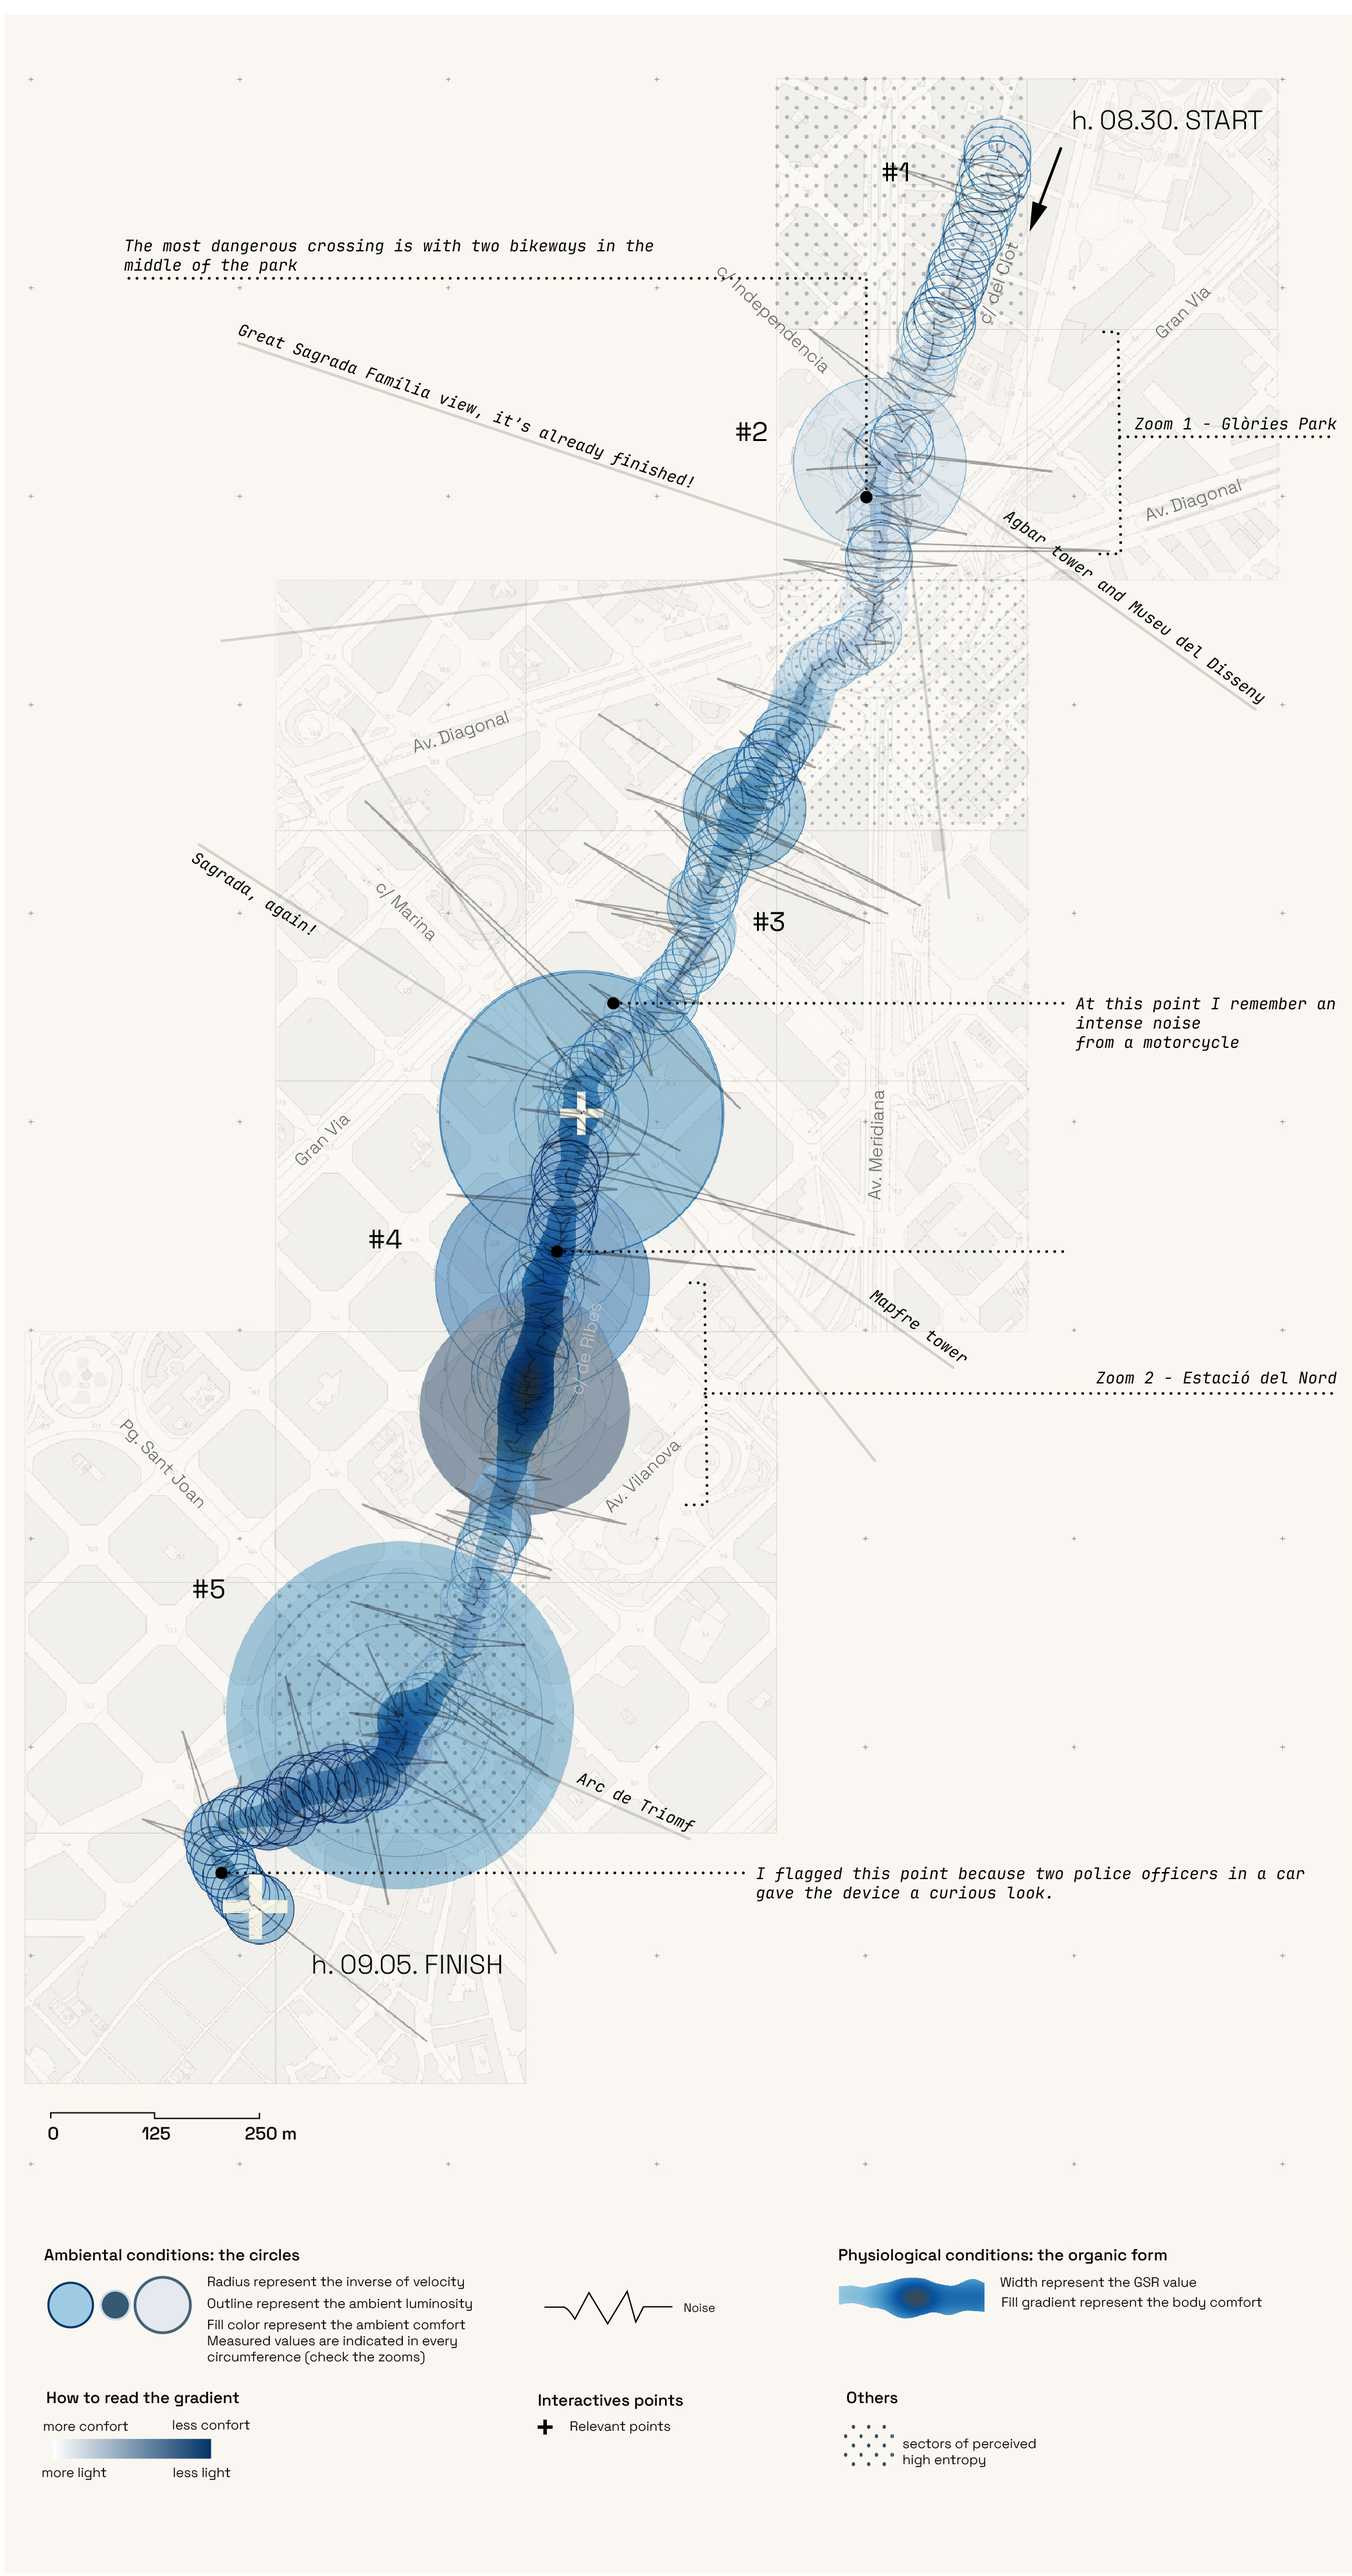
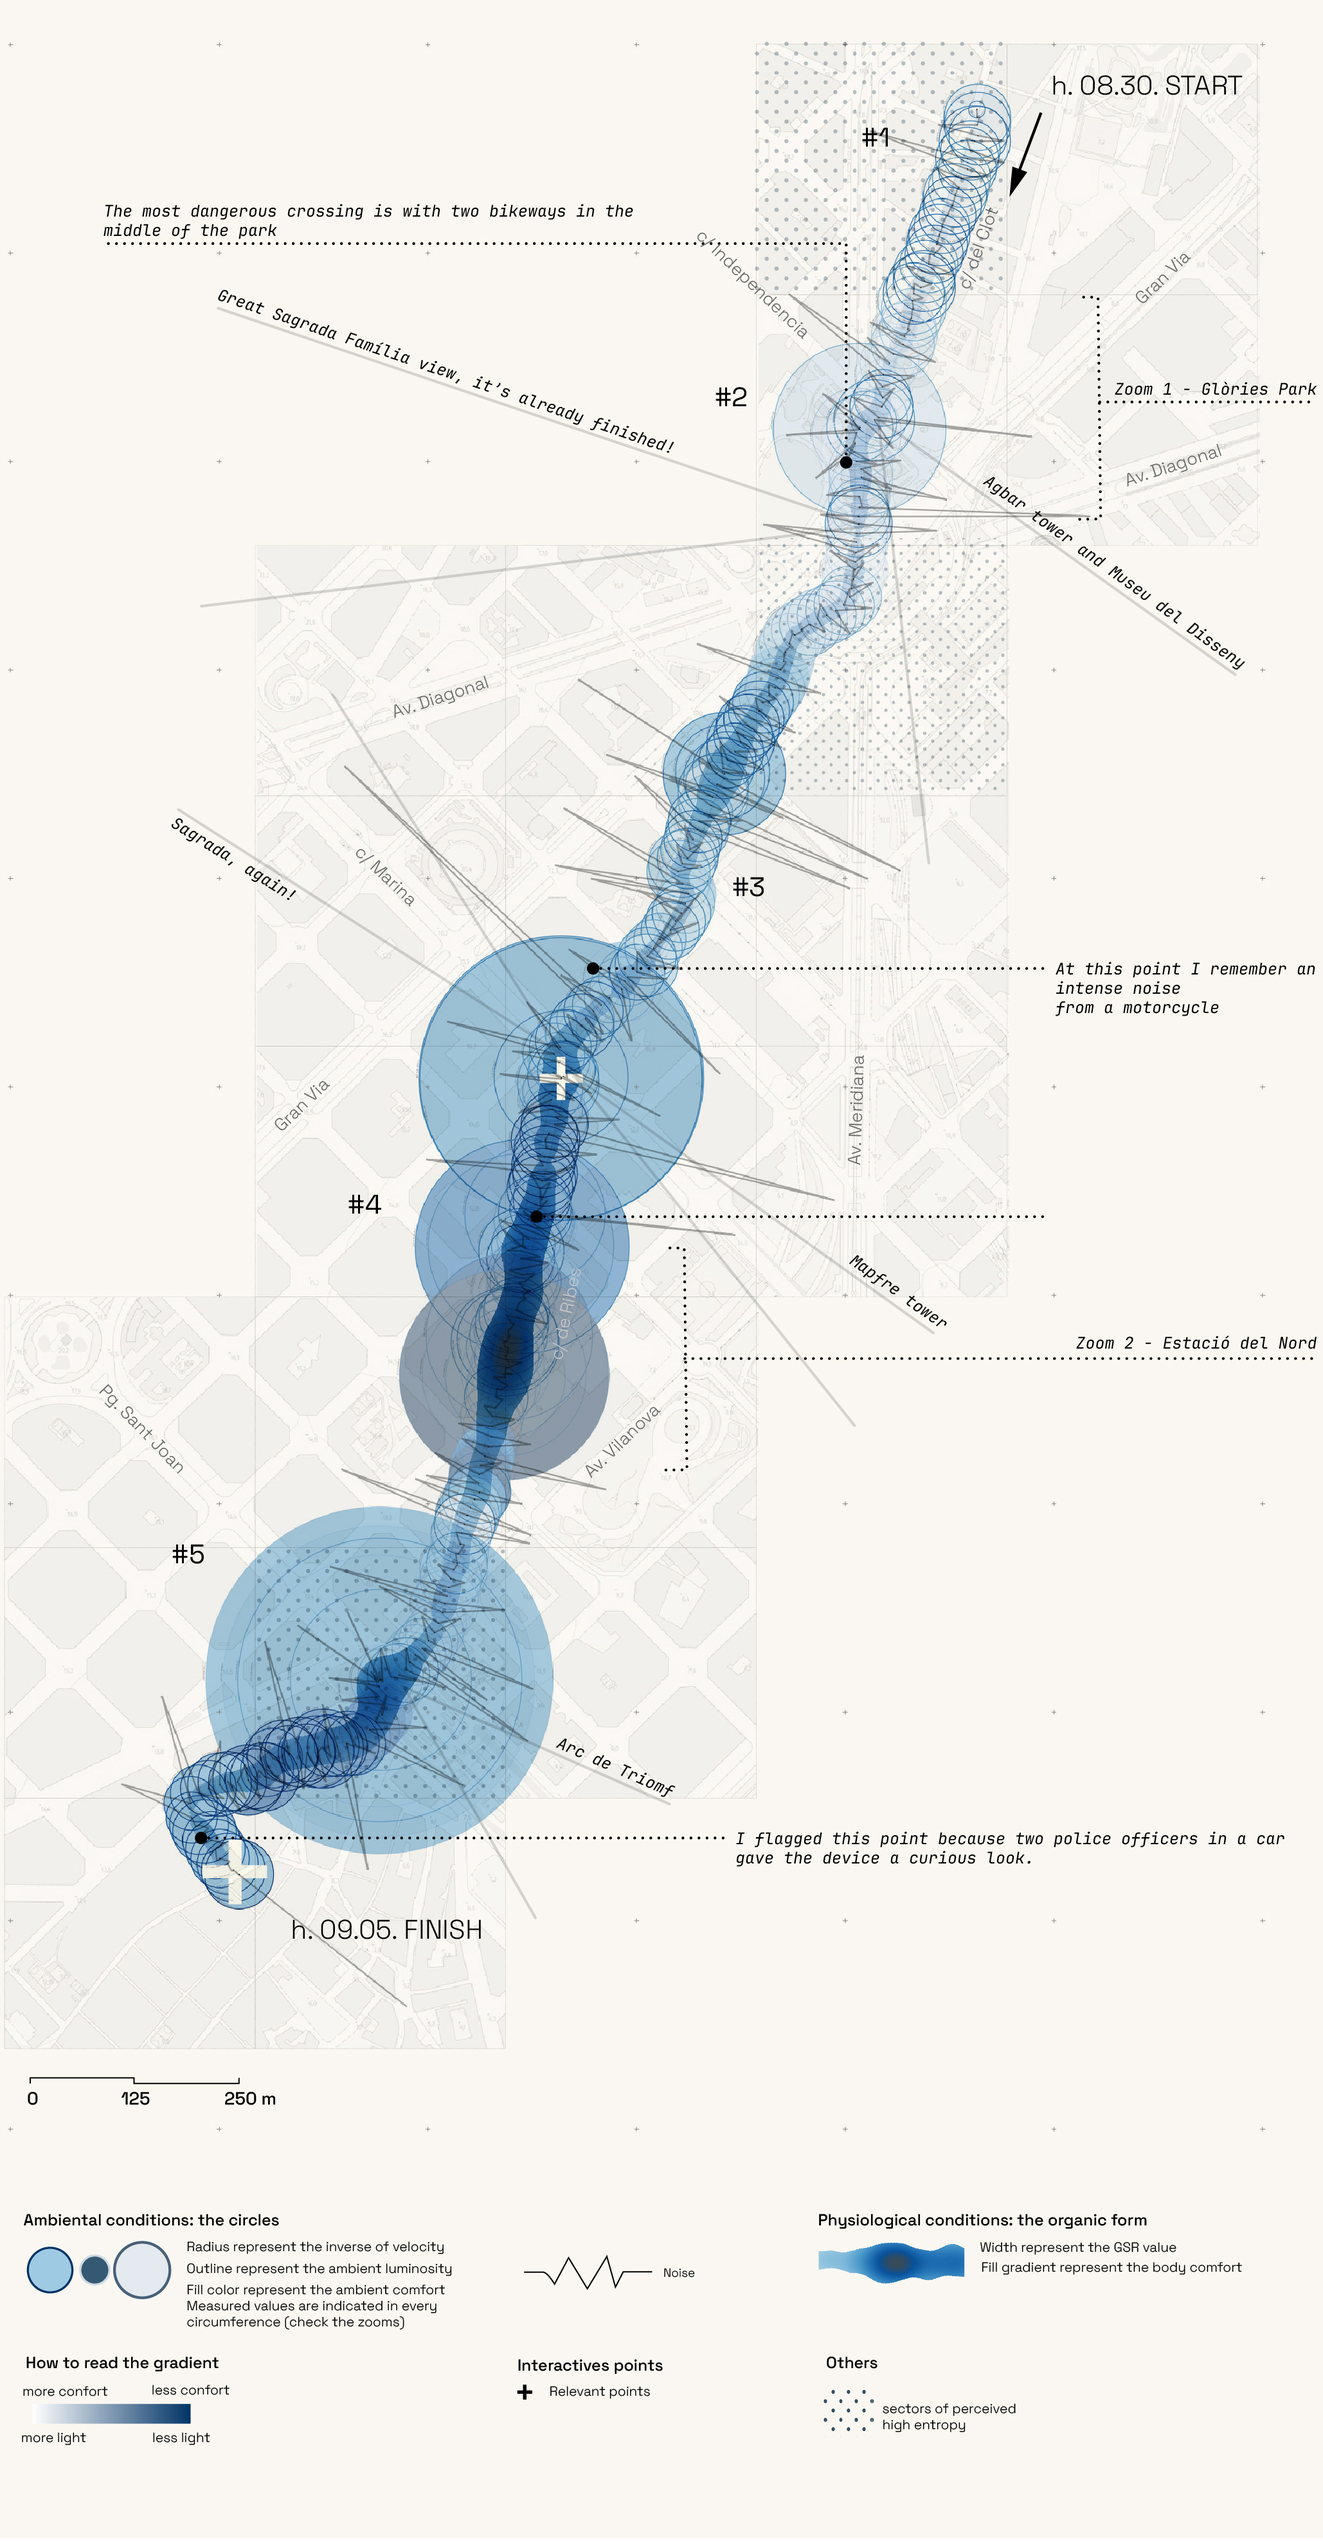
Update Voce Atlas “wka_01-first-test-drift-from-home-to-the-office”

diff --git a/src/content/atlas/wka_01-first-test-drift-from-home-to-the-office.md b/src/content/atlas/wka_01-first-test-drift-from-home-to-the-office.md
@@ -2,7 +2,7 @@
 titolo: WKa_01 First Test Drift From home to the office
 data: 2026-06-22
 taglia: grande
-immagine: /uploads/map-for-portada-01.jpg
+immagine: ""
 estratto: "This is the first walkography recorded with the WKd_01.01 device. It
   traces a familiar daily path: the walk from my home to the office."
 descrizione: An Experimental Urban Drift Through Barcelona Using Environmental
@@ -33,6 +33,6 @@ A small pause before the last stretch, from Arc de Triomf to the studio.
 
 The last metres aren't quite usual: another bar for foreigners has opened — the kind that looks effortlessly cool but is soulless and inexplicably expensive. Fede's bar has closed; word is there'll be a shawarma place. The one saving grace is Liliana, the unfriendly doorkeeper, mopping the pavement as always. No smile. I go in, switch off the wkd_01.01
 
-![](/uploads/post-01.jpg "WKa_01 Map")
+![](/uploads/post-01.webp "WKa_01 Map")
 
-![Wka_01 zooms](/uploads/post-02.jpg)
+![Wka_01 zooms](/uploads/post-02.webp)
